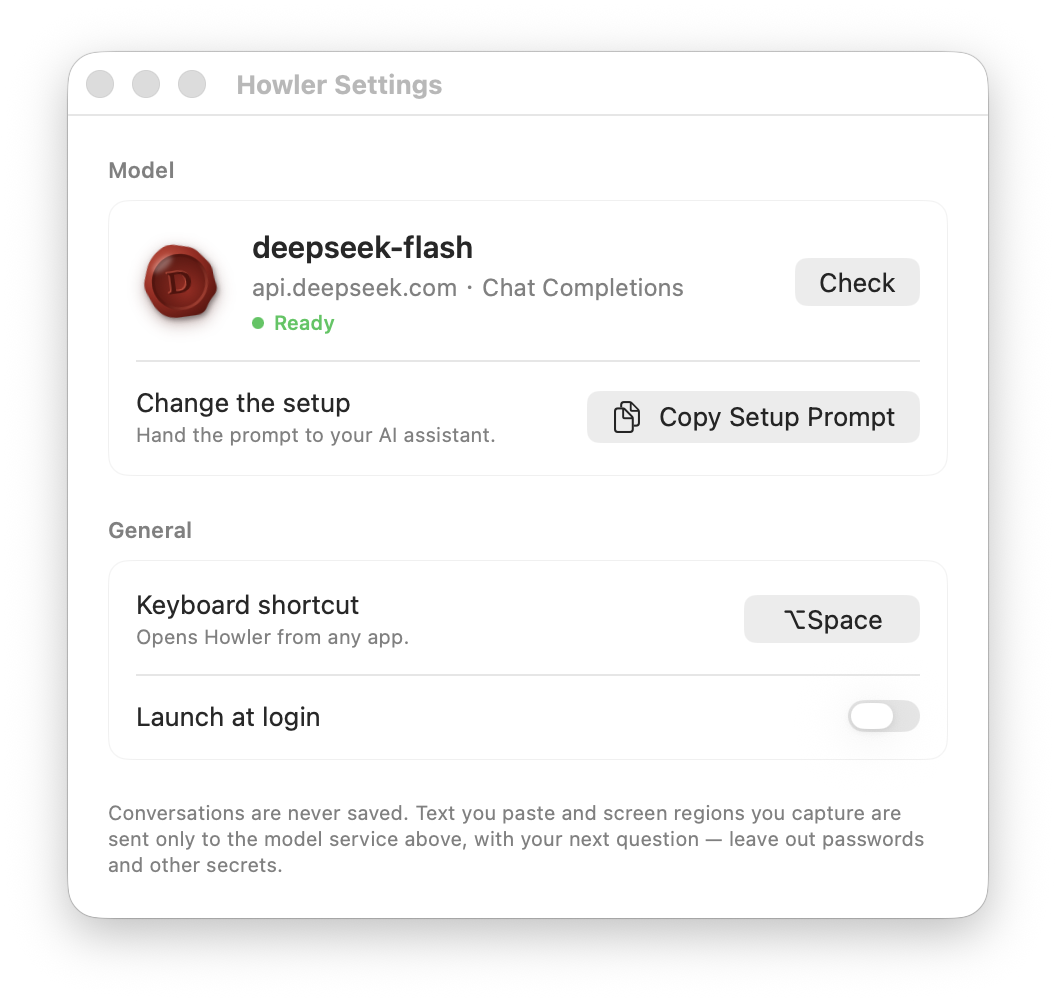
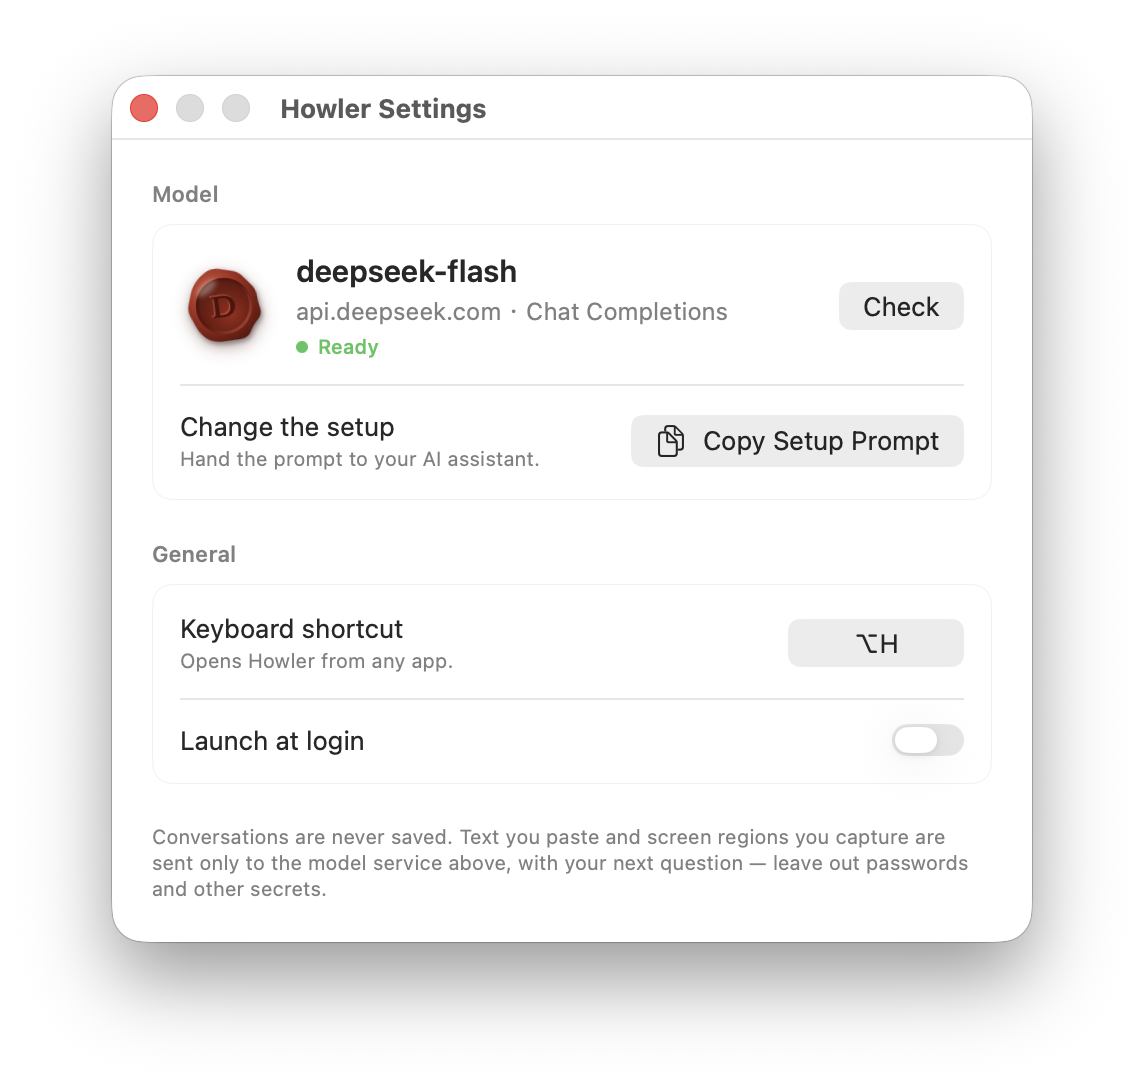
feat: default shortcut ⌥H instead of ⌥Space (#11)
* feat: default shortcut ⌥H instead of ⌥Space

⌥Space collides with other assistants' launchers (Codex among them).
⌥H is free in macOS and common apps, and H stands for Howler.

- HotKeyCombo.standard is ⌥H; Reset and its tooltip follow it
- A stored ⌥Space was only ever written by Reset, so it means "the
  default" and now resolves to ⌥H; a shortcut the user recorded stays
  (HotKeyCombo.effective(stored:), with a test)
- README (en / zh-CN) and ACCEPTANCE use ⌥H

* fix: migrate a stored ⌥Space once, and reset by forgetting the shortcut

Review of #11: mapping a stored ⌥Space to ⌥H on every launch meant a user
could never keep ⌥Space, even when recording it on purpose after the
upgrade. Drop the old default once, behind hotKeyDefaultChecked, and make
Reset remove the stored shortcut instead of saving today's default.

* docs: Settings screenshot with the ⌥H shortcut

Changed region(s): [[0.0625, 0.0619, 0.9375, 0.9281], [0.5625, 0.3713, 0.8438, 0.4331], [0.75, 0.2784, 0.8438, 0.3094]]

diff --git a/Tests/HowlerCoreTests/ContextAttachmentTests.swift b/Tests/HowlerCoreTests/ContextAttachmentTests.swift
@@ -78,9 +78,29 @@ final class ContextAttachmentTests: XCTestCase {
 }
 
 final class HotKeyComboTests: XCTestCase {
-    func testDefaultIsOptionSpace() {
-        XCTAssertEqual(HotKeyCombo.optionSpace.display, "⌥Space")
-        XCTAssertTrue(HotKeyCombo.optionSpace.isValid)
+    func testDefaultIsOptionH() {
+        XCTAssertEqual(HotKeyCombo.standard.display, "⌥H")
+        XCTAssertEqual(HotKeyCombo.standard.keyCode, 4) // kVK_ANSI_H
+        XCTAssertTrue(HotKeyCombo.standard.isValid)
+        XCTAssertEqual(HotKeyCombo.previousStandard.display, "⌥Space")
+        XCTAssertNotEqual(HotKeyCombo.standard, HotKeyCombo.previousStandard)
+    }
+
+    func testStoredShortcutResolution() {
+        let custom = HotKeyCombo(keyCode: 40, modifiers: [.control, .option], keyLabel: "K")
+        XCTAssertEqual(HotKeyCombo.effective(stored: nil), .standard)
+        XCTAssertEqual(HotKeyCombo.effective(stored: custom), custom)
+        XCTAssertEqual(HotKeyCombo.effective(stored: HotKeyCombo(keyCode: 40, modifiers: [], keyLabel: "K")), .standard)
+        // Recorded on purpose after the upgrade, ⌥Space is kept.
+        XCTAssertEqual(HotKeyCombo.effective(stored: .previousStandard), .previousStandard)
+    }
+
+    func testDefaultChangeDropsOnlyTheOldDefault() {
+        // The old Reset stored ⌥Space; on the one-time upgrade it follows the default to ⌥H.
+        XCTAssertNil(HotKeyCombo.storedAfterDefaultChange(.previousStandard))
+        let custom = HotKeyCombo(keyCode: 40, modifiers: [.control, .option], keyLabel: "K")
+        XCTAssertEqual(HotKeyCombo.storedAfterDefaultChange(custom), custom)
+        XCTAssertNil(HotKeyCombo.storedAfterDefaultChange(nil))
     }
 
     func testDisplayUsesMacModifierOrder() {

diff --git a/Sources/Howler/AppSettings.swift b/Sources/Howler/AppSettings.swift
@@ -34,6 +34,8 @@ final class AppSettings: ObservableObject {
 
     private enum DefaultsKey {
         static let hotKey = "hotKey"
+        /// Set once the ⌥Space → ⌥H default change has been applied to stored settings.
+        static let hotKeyDefaultChecked = "hotKeyDefaultChecked"
     }
 
     enum LoginItemState: Equatable {
@@ -48,9 +50,14 @@ final class AppSettings: ObservableObject {
         self.client = client
         self.defaults = defaults
         store = ServiceStore(defaults: defaults)
-        hotKey = defaults.data(forKey: DefaultsKey.hotKey)
+        var stored = defaults.data(forKey: DefaultsKey.hotKey)
             .flatMap { try? JSONDecoder().decode(HotKeyCombo.self, from: $0) }
-            .flatMap { $0.isValid ? $0 : nil } ?? .optionSpace
+        if !defaults.bool(forKey: DefaultsKey.hotKeyDefaultChecked) {
+            stored = HotKeyCombo.storedAfterDefaultChange(stored)
+            if stored == nil { defaults.removeObject(forKey: DefaultsKey.hotKey) }
+            defaults.set(true, forKey: DefaultsKey.hotKeyDefaultChecked)
+        }
+        hotKey = HotKeyCombo.effective(stored: stored)
         store.migrateLegacySetup()
         reload()
         refreshLaunchAtLogin()
@@ -137,6 +144,12 @@ final class AppSettings: ObservableObject {
         if let data = try? JSONEncoder().encode(combo) {
             defaults.set(data, forKey: DefaultsKey.hotKey)
         }
+    }
+
+    /// Back to the default by forgetting the recorded shortcut, so a future default applies too.
+    func resetHotKey() {
+        hotKey = .standard
+        defaults.removeObject(forKey: DefaultsKey.hotKey)
     }
 
     // MARK: Launch at login

diff --git a/Sources/HowlerCore/HotKeyCombo.swift b/Sources/HowlerCore/HotKeyCombo.swift
@@ -25,7 +25,27 @@ public struct HotKeyCombo: Equatable, Codable, Sendable {
         self.keyLabel = keyLabel
     }
 
-    public static let optionSpace = HotKeyCombo(keyCode: 49, modifiers: .option, keyLabel: "Space")
+    /// The shortcut until the user records another: ⌥H, H for Howler. (⌥Space, the
+    /// default before v0.1.5, collides with other assistants' launchers.)
+    public static let standard = HotKeyCombo(keyCode: 4, modifiers: .option, keyLabel: "H")
+
+    /// ⌥Space, the default until v0.1.5. Only the old Reset button stored it, so a stored
+    /// copy found on upgrade means "the default", not a choice.
+    public static let previousStandard = HotKeyCombo(keyCode: spaceKeyCode, modifiers: .option, keyLabel: "Space")
+
+    public static let spaceKeyCode: UInt32 = 49
+
+    /// The shortcut to use for what settings hold: a missing or invalid combo means the default.
+    public static func effective(stored: HotKeyCombo?) -> HotKeyCombo {
+        guard let stored, stored.isValid else { return standard }
+        return stored
+    }
+
+    /// Applied once, on the first launch after the default moved to ⌥H: a stored ⌥Space is
+    /// dropped so it follows the default. After that, ⌥Space recorded on purpose stays.
+    public static func storedAfterDefaultChange(_ stored: HotKeyCombo?) -> HotKeyCombo? {
+        stored == previousStandard ? nil : stored
+    }
 
     /// "⌃⌥⇧⌘K" — Apple's canonical modifier order.
     public var display: String {

diff --git a/Sources/Howler/HotKeyRecorder.swift b/Sources/Howler/HotKeyRecorder.swift
@@ -21,14 +21,14 @@ struct HotKeyRecorder: View {
                     .foregroundStyle(.secondary)
             }
             // Reset sits to the left so the shortcut button keeps to the row's trailing edge.
-            if settings.hotKey != .optionSpace && !settings.isRecordingHotKey {
+            if settings.hotKey != .standard && !settings.isRecordingHotKey {
                 Button {
-                    settings.setHotKey(.optionSpace)
+                    settings.resetHotKey()
                 } label: {
                     Image(systemName: "arrow.uturn.backward")
                 }
                 .buttonStyle(.borderless)
-                .help("Reset to \(HotKeyCombo.optionSpace.display)")
+                .help("Reset to \(HotKeyCombo.standard.display)")
             }
             Button {
                 settings.isRecordingHotKey ? stopRecording() : startRecording()

diff --git a/Sources/Howler/AppDelegate.swift b/Sources/Howler/AppDelegate.swift
@@ -102,7 +102,7 @@ final class AppDelegate: NSObject, NSApplicationDelegate {
     }
 
     private static func keyEquivalent(for combo: HotKeyCombo) -> String? {
-        if combo.keyCode == HotKeyCombo.optionSpace.keyCode { return " " }
+        if combo.keyCode == HotKeyCombo.spaceKeyCode { return " " }
         if let number = Int(combo.keyLabel.dropFirst()), combo.keyLabel.hasPrefix("F"), (1...20).contains(number),
            let scalar = UnicodeScalar(NSF1FunctionKey + number - 1) {
             return String(Character(scalar))

diff --git a/ACCEPTANCE.md b/ACCEPTANCE.md
@@ -12,17 +12,17 @@ Run on macOS 14+ with the released `Howler.dmg` (or `Howler.zip`). Mark each ite
 - [ ] 菜单栏出现图标；**Dock 中没有图标**；⌘Tab 中不出现
 - [ ] 首次启动（未配置）自动弹出 Settings 窗口
 - [ ] Finder、DMG 中的 Howler.app 显示羽毛笔火漆图标（不是空白应用图标）
-- [ ] 菜单栏图标为刻着 H 的火漆剪影，随浅色 / 深色菜单栏变色；菜单包含：Open Howler（⌥Space）、Settings…、Quit Howler；Quit 可正常退出
+- [ ] 菜单栏图标为刻着 H 的火漆剪影，随浅色 / 深色菜单栏变色；菜单包含：Open Howler（⌥H）、Settings…、Quit Howler；Quit 可正常退出
 
 ## 2. 全局快捷键与面板 / Hotkey & panel
 
-- [ ] 在任意应用（Finder、Safari、全屏应用）中按 ⌥Space 呼出信纸，位于当前屏幕上方居中，带纸张落下的动画与火漆印“盖章”动画
-- [ ] 再按 ⌥Space：信纸从底边起火烧掉（约 1 秒），然后消失
+- [ ] 在任意应用（Finder、Safari、全屏应用）中按 ⌥H 呼出信纸，位于当前屏幕上方居中，带纸张落下的动画与火漆印“盖章”动画
+- [ ] 再按 ⌥H：信纸从底边起火烧掉（约 1 秒），然后消失
 - [ ] 信纸出现时输入框自动获得焦点，可直接输入；前台应用不会被切走（菜单栏仍显示原应用名）
 - [ ] 中文输入法：可正常输入拼音选词；选词过程中按 Esc 只取消组字，不关闭信纸
 - [ ] ⌘V / ⌘C / ⌘A / ⌘Z 在输入框中可用
 - [ ] Esc 烧掉信纸；点击纸张外部（包括纸张阴影区域）烧掉信纸
-- [ ] 燃烧中再按 ⌥Space：立即出现一张新的空白信纸
+- [ ] 燃烧中再按 ⌥H：立即出现一张新的空白信纸
 - [ ] 从菜单或火漆印打开 Settings：信纸直接收起，不燃烧
 - [ ] 多显示器：在鼠标所在屏幕上弹出
 - [ ] 未配置时，信纸显示 “This parchment has no ink yet.” 与 “Open Settings” 按钮，点击打开设置
@@ -64,6 +64,7 @@ Run on macOS 14+ with the released `Howler.dmg` (or `Howler.zip`). Mark each ite
 - [ ] 打开“钥匙串访问”，搜索 `com.hiarieszhou.howler` 可看到账户名为 `api-key` 的条目
 - [ ] 从配置了服务商的旧版本升级：首次启动后原服务商、模型与 Key 自动迁移，设置页直接显示该模型（状态 Not checked yet），发送可用
 - [ ] 退出并重启应用：模型服务、Key、快捷键仍然有效
+- [ ] 从 v0.1.4 升级：没改过快捷键（或曾点过 ↺ 恢复 ⌥Space）的，升级后默认为 ⌥H；录制过其他快捷键的保持不变；升级后再特意录制 ⌥Space，重启后仍是 ⌥Space
 
 ### 3a. 命令行 / Command line
 
@@ -81,8 +82,8 @@ Run on macOS 14+ with the released `Howler.dmg` (or `Howler.zip`). Mark each ite
 
 ### 3b. 通用 / General
 
-- [ ] General → Keyboard shortcut：点按钮后按 ⌃⌥K，菜单栏 “Open Howler” 显示新快捷键，⌃⌥K 可呼出、⌥Space 不再响应；录制中按 Esc 取消
-- [ ] Keyboard shortcut：只含 ⇧ 的组合提示需加 ⌘/⌥/⌃；⌘V、⌘C、⌘Space 等系统快捷键被拒绝；被其他应用占用时显示红色提示；点 ↺ 恢复 ⌥Space
+- [ ] General → Keyboard shortcut：点按钮后按 ⌃⌥K，菜单栏 “Open Howler” 显示新快捷键，⌃⌥K 可呼出、⌥H 不再响应；录制中按 Esc 取消
+- [ ] Keyboard shortcut：只含 ⇧ 的组合提示需加 ⌘/⌥/⌃；⌘V、⌘C、⌘Space 等系统快捷键被拒绝；被其他应用占用时显示红色提示；点 ↺ 恢复 ⌥H
 - [ ] Keyboard shortcut：开始录制后切到其他窗口或关闭设置窗口，录制自动结束，原快捷键恢复可用
 - [ ] General → Launch at login：打开后注销重新登录，Howler 自动启动（若提示需批准，按提示到“登录项”中允许）
 
@@ -117,7 +118,7 @@ For each preset: `config set preset=…`, save a key, pass `check`, open the pan
 - [ ] 关闭面板后再打开：对话已清空
 - [ ] 生成过程中关闭面板：请求被取消，再打开为空白，不会出现旧回答
 - [ ] `~/Library/Containers`、`~/Library/Application Support`、`~/Library/Caches` 中没有 Howler 的对话文件
-- [ ] `defaults read com.hiarieszhou.howler` 只包含 `service`、检查过时的 `serviceCheck`，以及改过时的 `hotKey`；其中没有 API Key
+- [ ] `defaults read com.hiarieszhou.howler` 只包含 `service`、检查过时的 `serviceCheck`、`hotKeyDefaultChecked`，以及改过时的 `hotKey`；其中没有 API Key
 - [ ] Console.app 中按进程 Howler 过滤，发送消息时没有对话内容日志
 
 ## 6. 错误处理 / Errors

diff --git a/README.md b/README.md
@@ -34,7 +34,7 @@
 
 ## The letter
 
-Press **⌥Space** anywhere. A letter settles at the top of the screen, already sealed in wax.
+Press **⌥H** anywhere. A letter settles at the top of the screen, already sealed in wax.
 
 - **Parchment, not a text box.** The paper has deckled edges, fibers and a fold crease. Your question sits on a ruled line, and the answer is set in a book face below it. The sheet grows with the answer up to an A4 page, then follows the quill.
 - **A quill that writes.** Answers stream in at a hand's pace. Fresh ink glows gold before it settles to sepia, and the quill rests after the last word. While the model thinks, the quill hovers and counts the seconds.
@@ -98,7 +98,7 @@ Changes take effect in the running app at once. Every request goes straight to t
 
 | | |
 | --- | --- |
-| **⌥Space** | Open the letter. Press again to burn it. The shortcut can be changed in Settings. |
+| **⌥H** | Open the letter. Press again to burn it. The shortcut can be changed in Settings. |
 | **↩** / **⌥↩** | Send / new line |
 | **⇧⌘C** | Copy the latest answer (or click ❧ Copy) |
 | **+ Attach** | Paste from the clipboard, or capture a screen region |

diff --git a/README.zh-CN.md b/README.zh-CN.md
@@ -34,7 +34,7 @@
 
 ## 一封信
 
-在任何应用里按 **⌥Space**，一封封好火漆的信就落在屏幕上方。
+在任何应用里按 **⌥H**，一封封好火漆的信就落在屏幕上方。
 
 - **一张纸，不是输入框**：毛边、纤维纹理、中间一道折痕。问题写在横线上，回答用书卷字体写在下方。纸随回答向下展开，最长到 A4 比例，之后跟着羽毛笔滚动。
 - **羽毛笔书写**：回答按手写的节奏逐字出现，新墨先泛起金光，再沉为墨色，羽毛笔停在最后一个字后面。模型思考时，羽毛笔悬在纸上，并显示已经思考了几秒。
@@ -98,7 +98,7 @@ $H config show
 
 | | |
 | --- | --- |
-| **⌥Space** | 呼出信纸；再按一次烧掉。可在 Settings 中改成其他快捷键 |
+| **⌥H** | 呼出信纸；再按一次烧掉。可在 Settings 中改成其他快捷键 |
 | **↩** / **⌥↩** | 发送 / 换行 |
 | **⇧⌘C** | 复制最新一条回答（也可点 ❧ Copy） |
 | **+ Attach** | 从剪贴板粘贴，或截取屏幕区域 |
